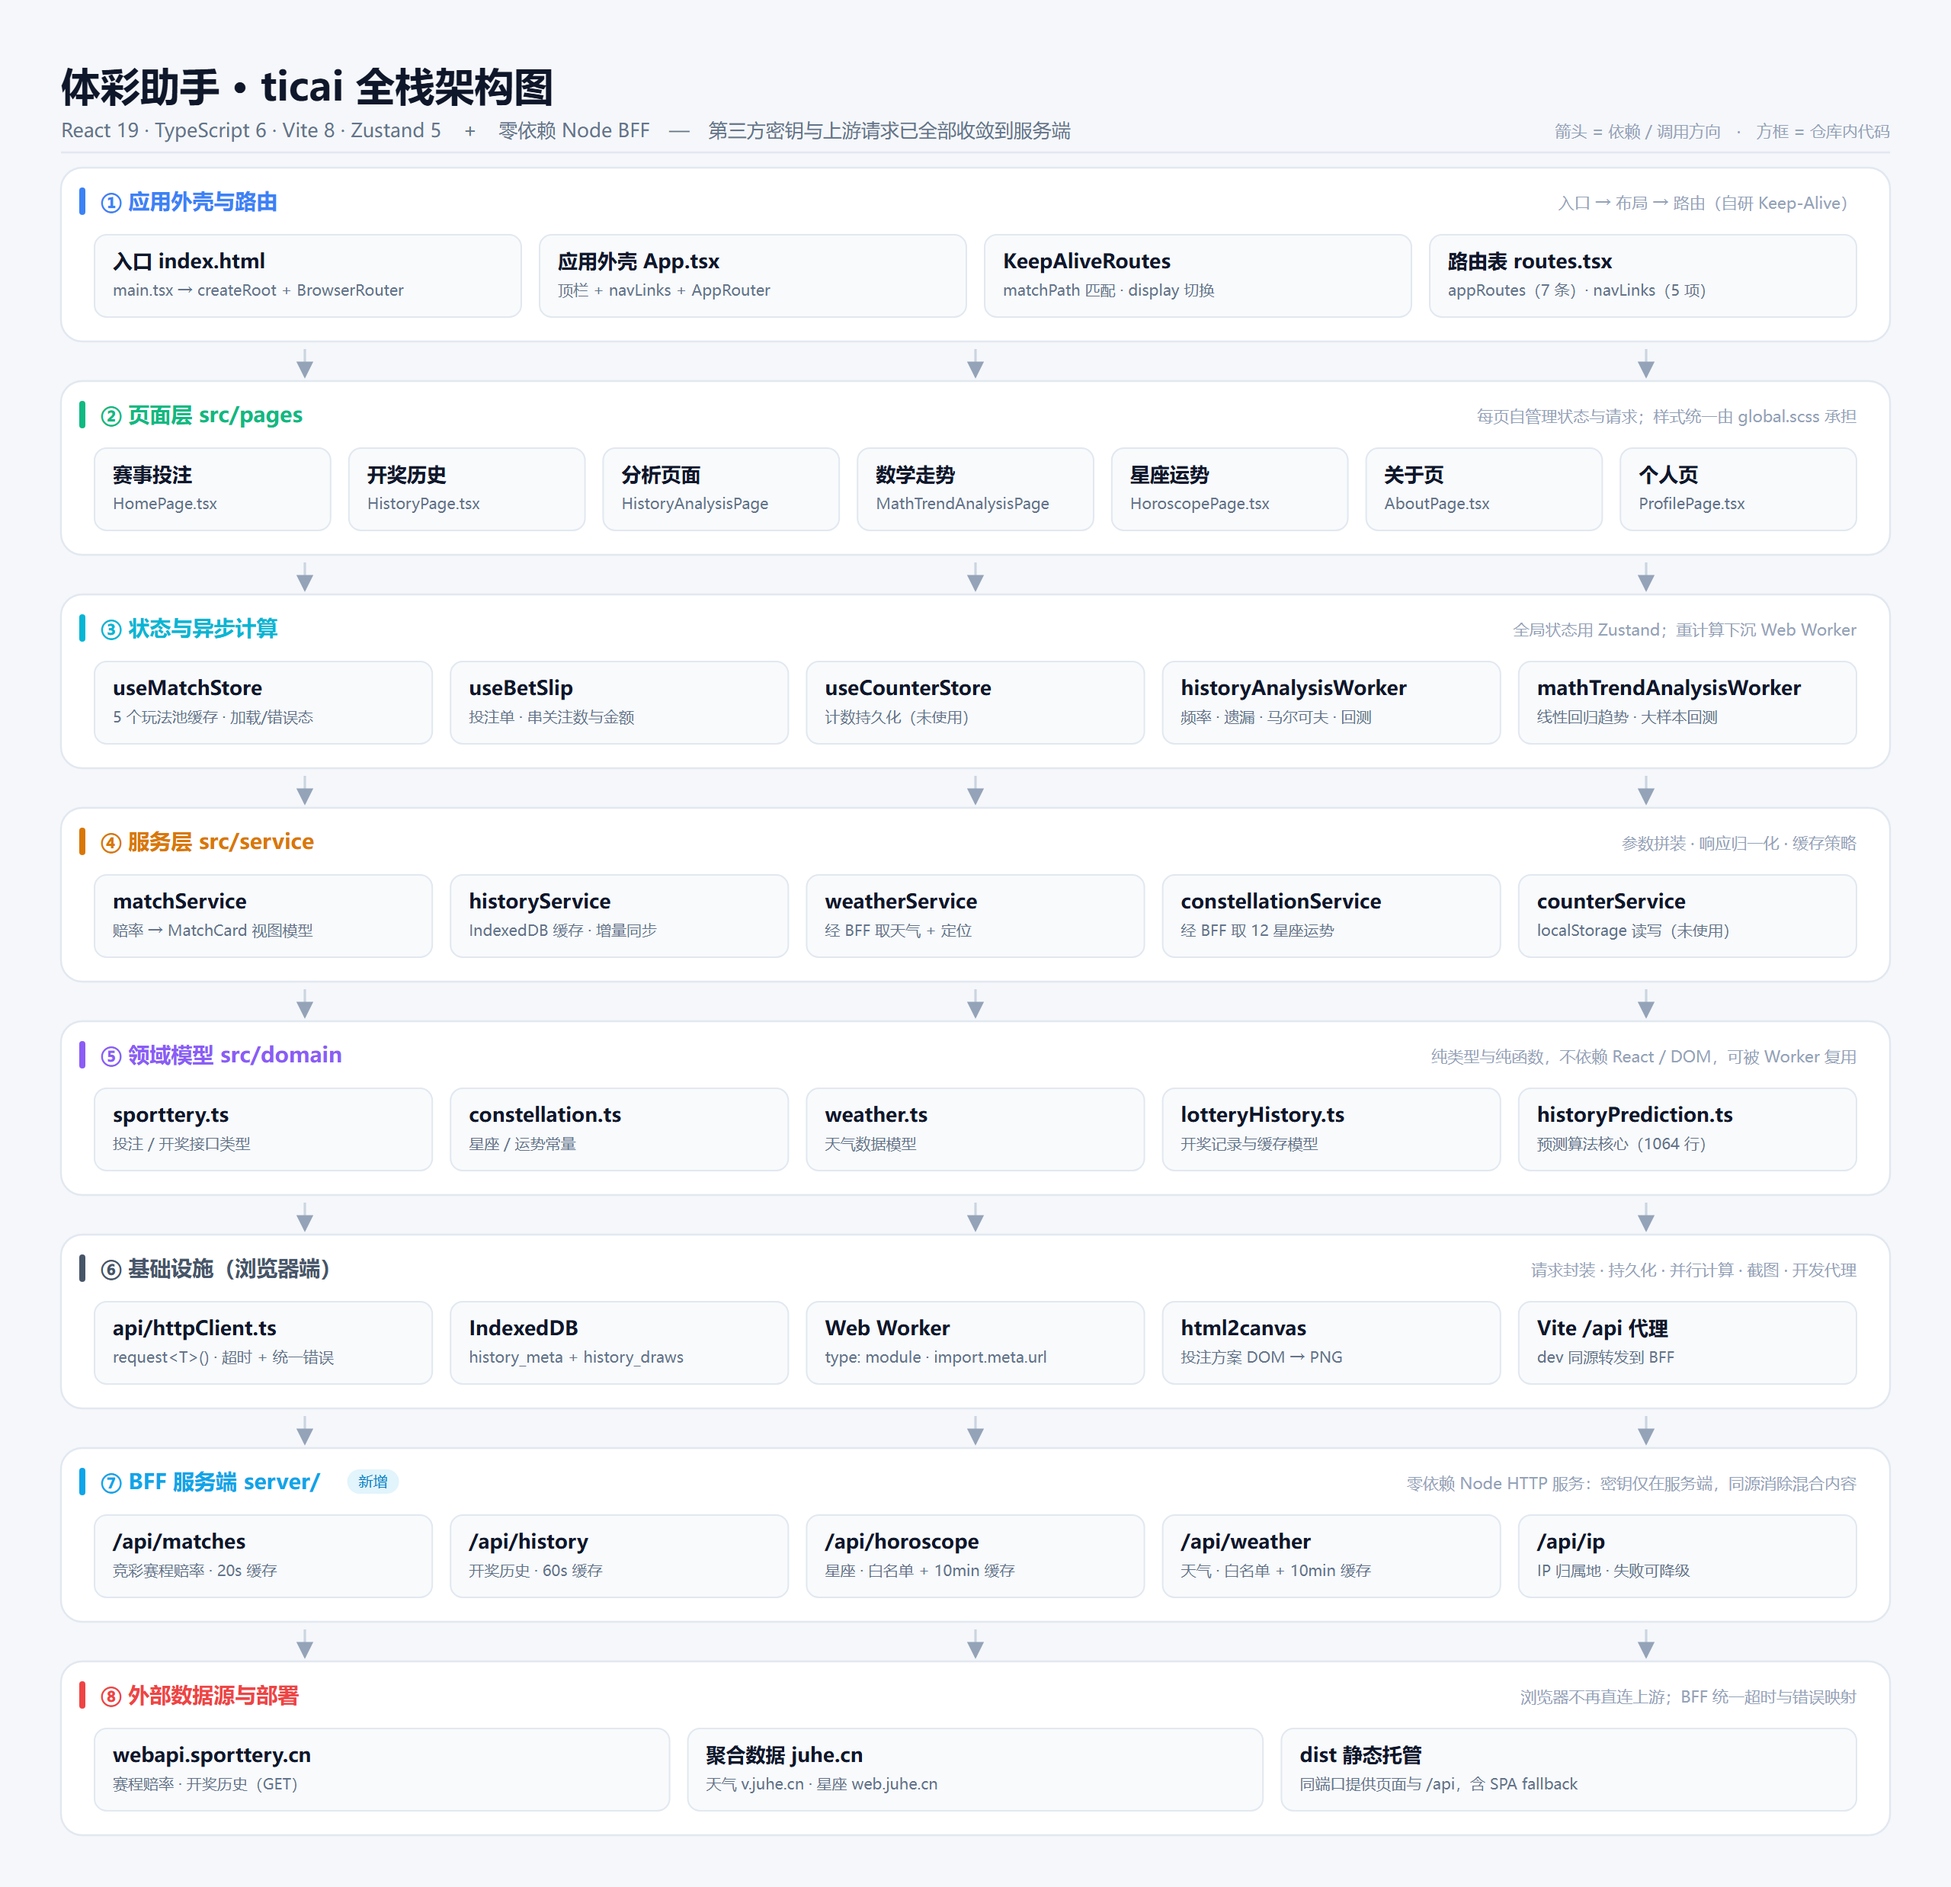
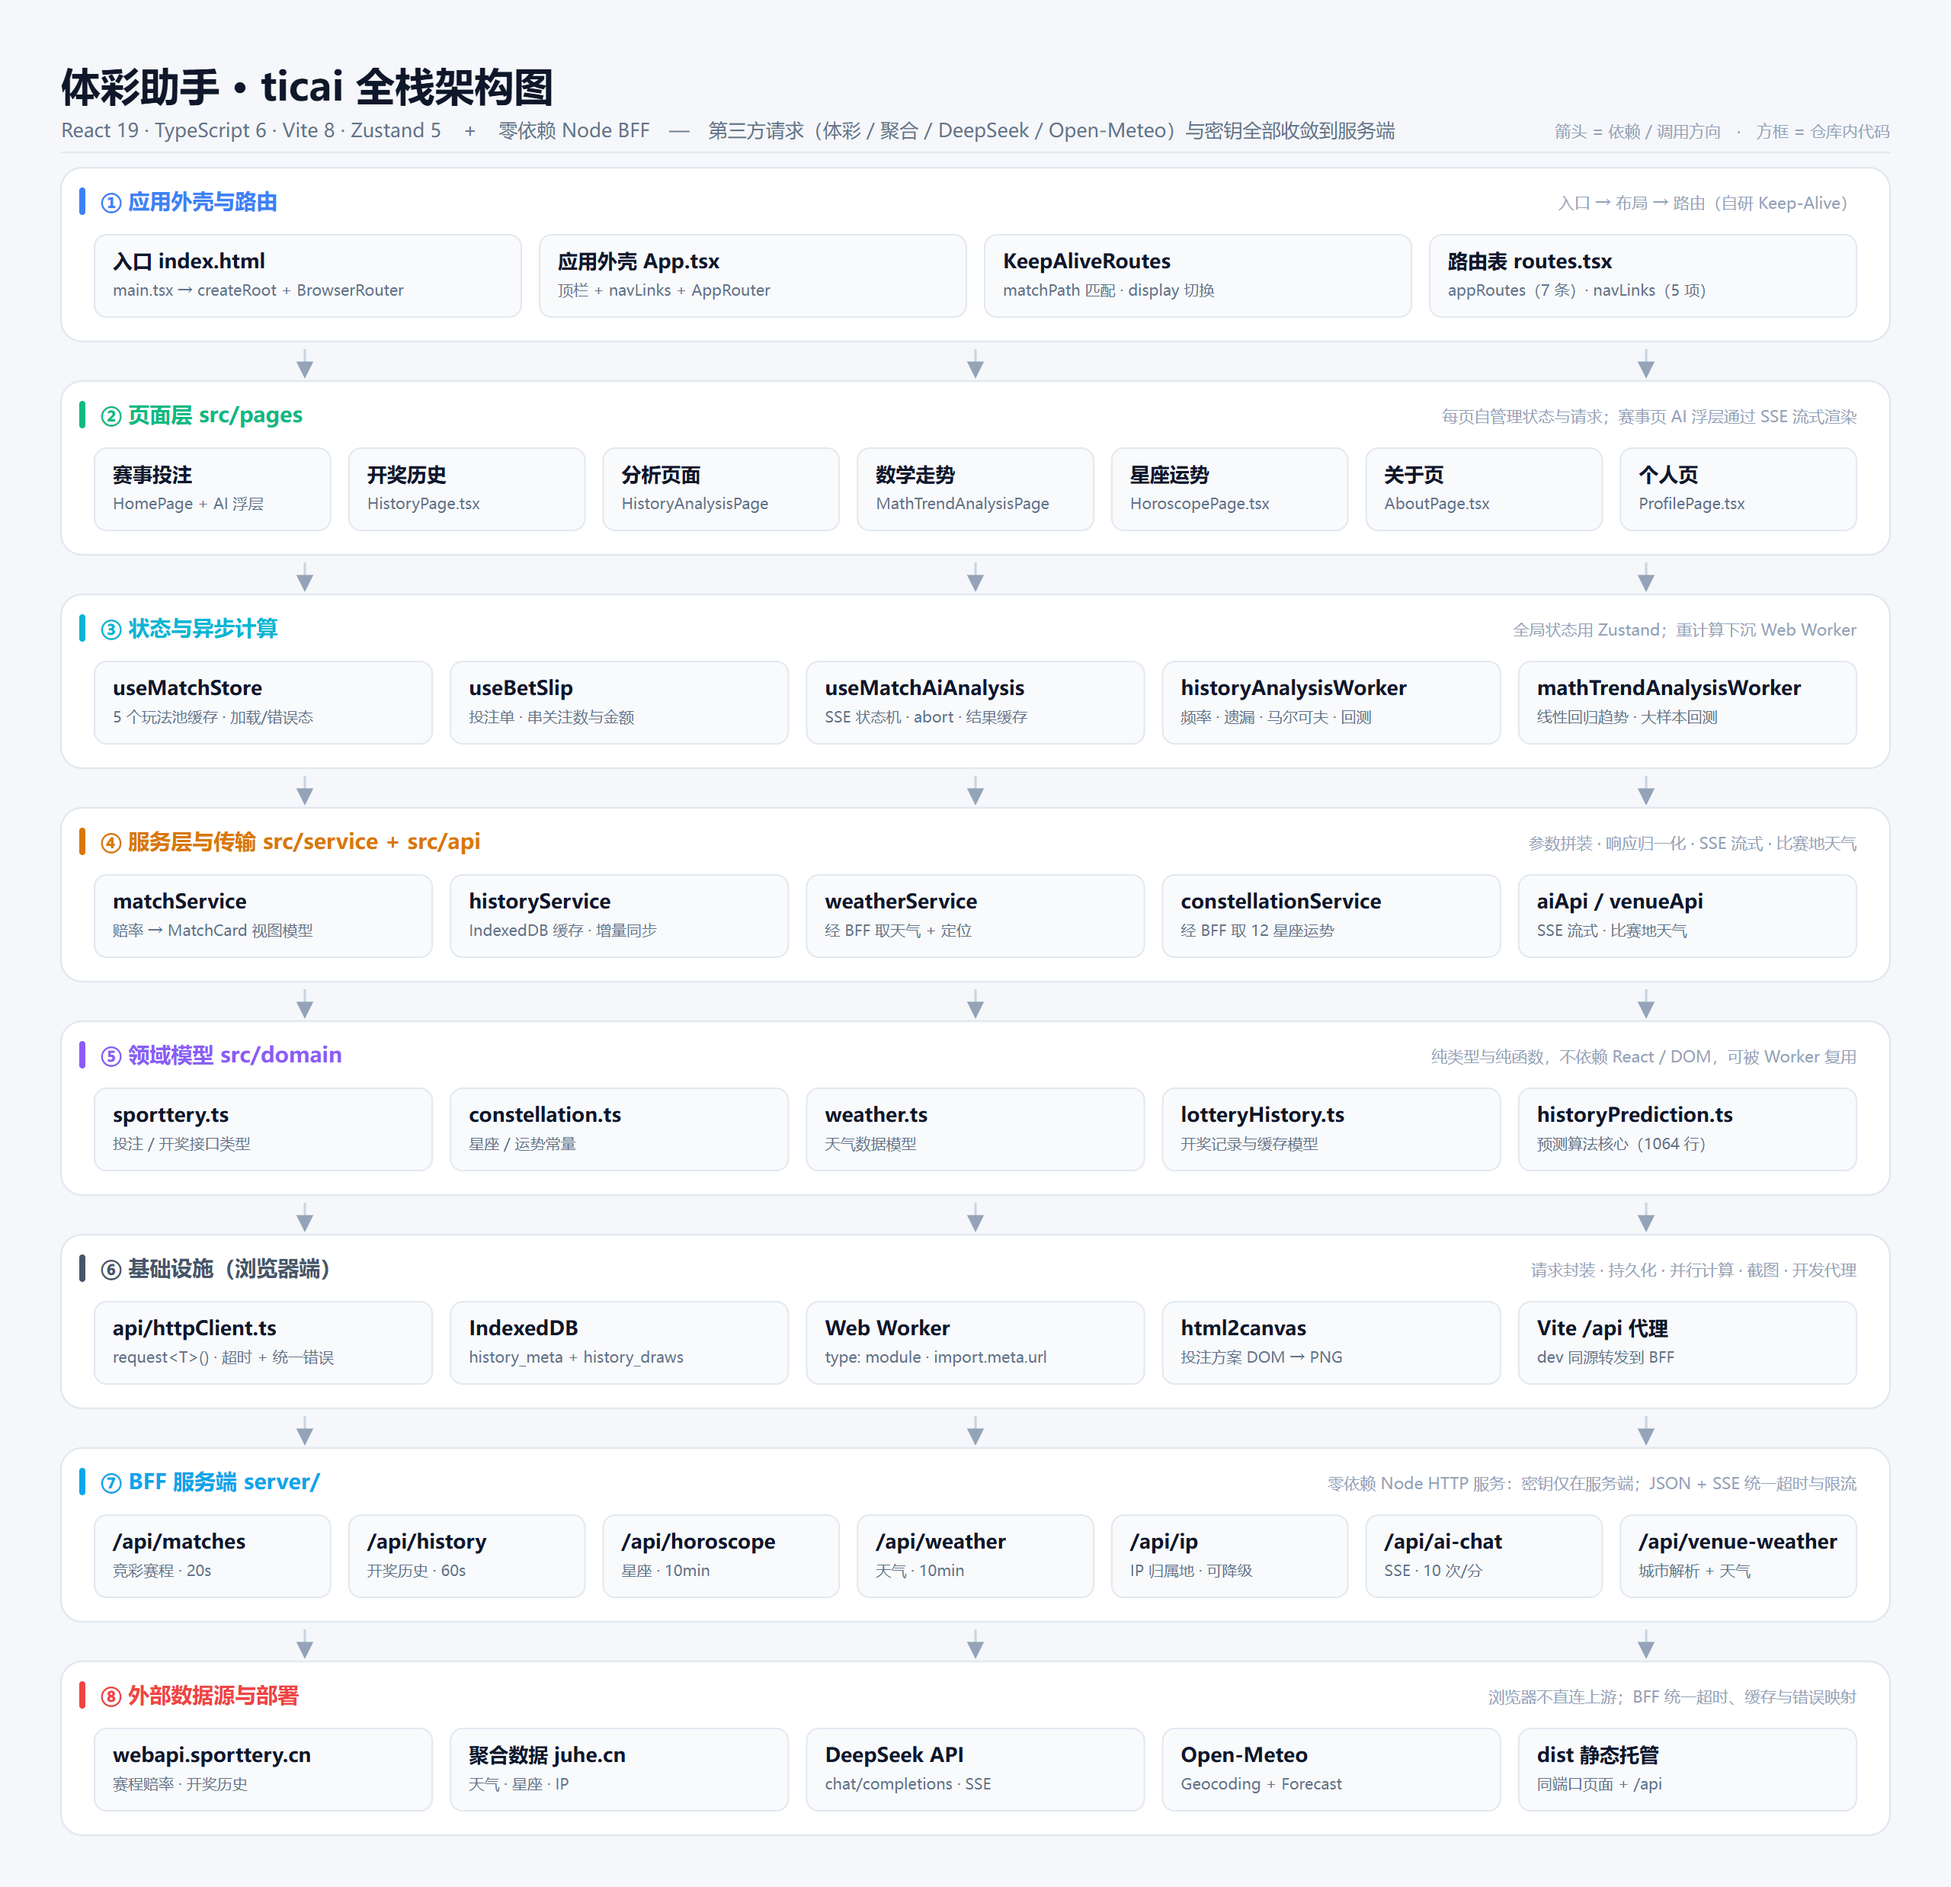
docs: 更新架构图与 AI 数据流说明
- architecture.svg / .png：补充 useMatchAiAnalysis、aiApi/venueWeatherApi、
  /api/ai-chat、/api/venue-weather，以及 DeepSeek / Open-Meteo 上游
- Mermaid 分层图同步到服务层 + 传输层、BFF 8 个接口与外部数据源
- 新增「比赛 AI 分析（SSE）」时序图，说明比赛地天气、流式分析与关闭 abort
- 环境变量与验证表补充 DeepSeek、限流和本地预构建部署

diff --git a/docs/architecture.md b/docs/architecture.md
@@ -74,6 +74,12 @@ npm run build && npm start   # 生产：单进程，:3000 同时提供 dist 与 
 | `JUHE_WEATHER_KEY` | — | 缺失时 `/api/weather` 返回 503 |
 | `JUHE_HOROSCOPE_KEY` | — | 缺失时 `/api/horoscope` 返回 503 |
 | `JUHE_IP_KEY` | — | 缺失时 `/api/ip` 返回空归属地（前端回退默认城市） |
+| `DEEPSEEK_API_KEY` | — | `/api/ai-chat` 与比赛地城市解析；缺失时 503 / 天气降级 |
+| `DEEPSEEK_MODEL` | `deepseek-flash` | 也可用 `deepseek-v4-pro` |
+| `DEEPSEEK_BASE_URL` | `https://api.deepseek.com` | OpenAI 兼容接口地址 |
+| `DEEPSEEK_TIMEOUT_MS` | `60000` | 大模型上游超时 |
+| `AI_RATE_LIMIT_PER_MIN` | `10` | `/api/ai-chat` 单实例限流 |
+| `VENUE_RATE_LIMIT_PER_MIN` | `20` | `/api/venue-weather` 单实例限流 |
 | `SPORTTERY_BASE` / `JUHE_*_BASE` | 官方地址 | 指向 mock 服务即可离线联调 |
 
 ### 分层与依赖规则
@@ -90,7 +96,7 @@ flowchart TB
 
   subgraph L2["② 页面层 src/pages"]
     direction LR
-    P1["HomePage"]
+    P1["HomePage + AI 浮层"]
     P2["HistoryPage"]
     P3["HistoryAnalysisPage"]
     P4["MathTrendAnalysisPage"]
@@ -102,16 +108,18 @@ flowchart TB
     direction LR
     S1["useMatchStore"]
     S2["useBetSlip"]
-    S3["historyAnalysisWorker"]
-    S4["mathTrendAnalysisWorker"]
+    S3["useMatchAiAnalysis<br/>SSE / abort / 结果缓存"]
+    S4["historyAnalysisWorker"]
+    S5["mathTrendAnalysisWorker"]
   end
 
-  subgraph L4["④ 服务层 src/service"]
+  subgraph L4["④ 服务层与传输 src/service + src/api"]
     direction LR
     V1["matchService"]
     V2["historyService"]
     V3["weatherService"]
     V4["constellationService"]
+    V5["aiApi / venueWeatherApi"]
   end
 
   subgraph L5["⑤ 领域模型 src/domain"]
@@ -133,14 +141,18 @@ flowchart TB
   subgraph L7["⑦ BFF server/"]
     direction LR
     B1["index.mjs 路由 + 静态托管"]
-    B2["handlers.mjs 5 个接口"]
+    B2["handlers.mjs 8 个接口"]
     B3["lib.mjs 缓存/超时/env"]
+    B4["llm.mjs DeepSeek 客户端"]
+    B5["venue.mjs 城市解析 + 天气"]
   end
 
   subgraph L8["⑧ 外部数据源"]
     direction LR
     E1["webapi.sporttery.cn"]
     E2["聚合数据 juhe.cn"]
+    E3["DeepSeek API"]
+    E4["Open-Meteo"]
   end
 
   L1 --> L2
@@ -364,7 +376,51 @@ sequenceDiagram
 
 > ⚠ `HistoryPage` 仍在 `useMemo` 里**同步**调用 `analyzeHistoryPrediction`（数据量大时阻塞主线程），与另两页的 Worker 方案不一致，属于遗留项。
 
-### 5.4 星座与天气
+### 5.4 比赛 AI 分析（SSE）
+
+```mermaid
+sequenceDiagram
+  autonumber
+  participant U as 用户
+  participant HP as HomePage
+  participant AI as useMatchAiAnalysis
+  participant VW as venueWeatherApi
+  participant CH as aiApi
+  participant BFF as BFF
+  participant DS as DeepSeek
+  participant OM as Open-Meteo
+
+  U->>HP: 点击「AI 分析」
+  HP->>AI: open(match, anchor)
+  AI->>VW: GET /api/venue-weather
+  VW->>BFF: homeTeam / league / kickoff
+  BFF->>DS: JSON 解析主队城市（缓存 7 天）
+  DS-->>BFF: city / country / stadium
+  BFF->>OM: Geocoding + Forecast
+  OM-->>BFF: 当前 + 开赛时段天气（缓存 20min）
+  BFF-->>VW: available + 天气
+  Note over AI,VW: 天气最多等 15s；失败则跳过
+  AI->>CH: POST /api/ai-chat { stream: true }
+  CH->>BFF: SSE（text/event-stream）
+  BFF->>DS: chat/completions (stream)
+  DS-->>BFF: reasoning / content 增量
+  BFF-->>CH: SSE reasoning / content
+  CH-->>AI: 回调累积
+  AI-->>HP: 浮层流式渲染
+  U->>HP: 关闭浮层
+  HP->>AI: close()
+  AI->>CH: AbortController.abort()
+  CH->>BFF: 连接关闭
+  BFF->>DS: abort 上游请求
+```
+
+要点：
+
+1. 城市解析依赖 DeepSeek，天气来自 Open-Meteo；两者都有缓存，失败时不阻塞分析，只在提示词里标注「天气缺失」。
+2. `aiApi` 解析 SSE 的 `reasoning` / `content` / `done` / `error`，前端只拼接文本；流式请求有 120s 总超时。
+3. 关闭浮层会 abort 客户端请求，BFF 监听 `res` 的 `close` 事件后同步 abort DeepSeek，避免继续生成。
+
+### 5.5 星座与天气
 
 1. `weatherService.getWeatherByLocation()`：`GET /api/ip` 拿城市 → `GET /api/weather?cityname=`；定位失败回退默认城市 `宝山`。
 2. `constellationService.getHoroscope()`：`GET /api/horoscope?consName=&type=`。
@@ -483,7 +539,7 @@ sequenceDiagram
 
 | 项 | 改造前 | 改造后 |
 | --- | --- | --- |
-| 第三方密钥 | 硬编码在 `weatherService` / `constellationService` | 仅在 `.env`，由 BFF 读取；bundle 已扫描确认无泄漏 |
+| 第三方密钥 | 硬编码在 `weatherService` / `constellationService` | 仅在本地 `.env` 与 Vercel 环境变量，由 BFF 读取；bundle 已扫描确认无泄漏 |
 | 生产请求地址 | `http://` 直连（HTTPS 站点必被拦截） | 同源 `/api/*`，由 BFF 转发 |
 | IP 定位 | 依赖仓库外的 `localhost:3000/api/ip`（无实现） | BFF 实现 `/api/ip`，未配置密钥时优雅降级 |
 | 上游治理 | 无缓存、无超时、错误靠文案 | 白名单校验 + TTL 缓存 + 8 s 超时 + 统一错误码 |
@@ -496,7 +552,9 @@ sequenceDiagram
 | 验证项 | 结果 |
 | --- | --- |
 | `tsc --noEmit` / `npm run build` | 通过，退出码 0 |
-| 5 个接口实测（真实上游） | `matches/history/horoscope/weather/ip` 均 200 且返回真实数据；`400/404/405` 分支正确 |
+| 8 个接口实测（真实上游） | `matches/history/horoscope/weather/ip/ai-chat/venue-weather/health` 均正常；`400/404/405/429` 分支正确 |
+| AI 分析链路（真实 DeepSeek） | SSE 增量、关闭 abort、比赛地天气、120s 流式超时均实测 |
+| 本地预构建部署 | `vercel build --prebuilt` 上传，云端仅托管；函数产物已剔除 `.env` |
 | 生产构建 5 个路由（CDP 驱动 Chrome） | 全部渲染出真实数据，**0 exception、0 console error** |
 | 存储层集成测试 | localStorage 3 条 → IDB 迁移成功且旧 key 删除；裁剪 3→2 保留最新；新页面从 IDB 读回 2 条 |
 | 真实应用写入 IDB | 访问 `/history` 后落库 100 条（期号 26177–26276），新页面读回一致 |
